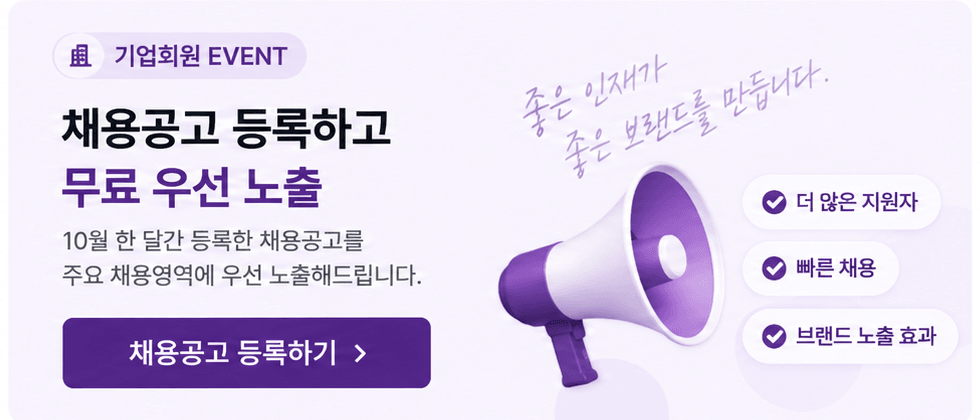
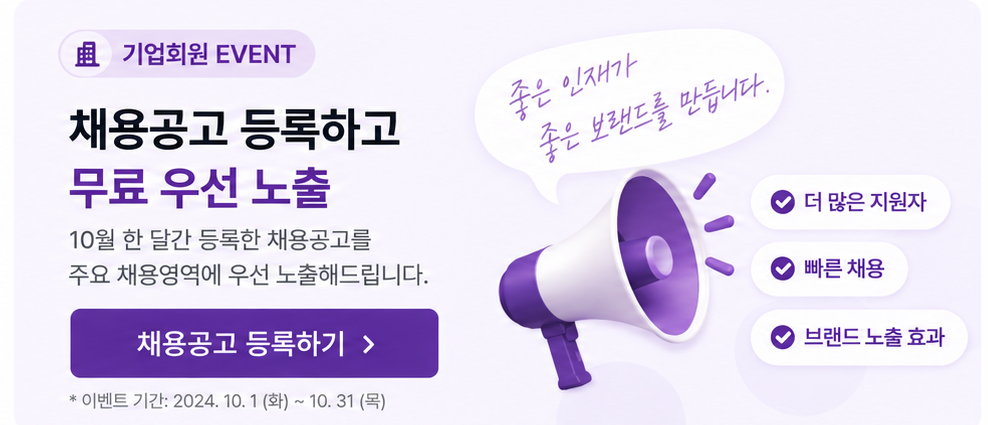
이벤트를 가로 전체로 — 받은 디자인을 그대로 쓴다
좁은 칸(330px)에 넣으니 글자가 3분의 1로 눌려 설명·각주가 안 읽혔다.
디자인은 애초에 가로 전체를 쓰는 구조다 — 공지·채용속보가 반반, 그 아래
이벤트가 통째로.

- 히어로를 디자인 차례대로 세운다: 검색(가로 전체) → 공지·채용속보(반반)
  → 이달의 이벤트(가로 전체)
- 가로가 넉넉해졌으니 검색은 토글·지역·키워드를 한 줄로 편다. 세로로 쌓으면
  카드만 길어진다. 직군 설명줄은 그 아래 한 줄
- 판 한 장 570px(배율 0.57) — 설명·각주·손글씨·알약까지 다 읽힌다

채용관 시작 563 → 832px. 원본을 다 살린 값이다.

diff --git a/app/page.tsx b/app/page.tsx
@@ -168,8 +168,11 @@ function Hero() {
         </Link>
 
         {/* 2. 일자리 찾기 블록 */}
+        {/* 디자인 차례 그대로 — 검색이 가로 전체, 그 아래 공지·채용속보 반반,
+            그 아래 이달의 이벤트가 가로 전체다. 이벤트 판은 받은 그림을 그대로
+            쓰는데, 좁은 칸에 넣으면 글자가 3분의 1로 눌려 읽히지 않는다. */}
         <div className="mt-jobs">
-          <div className="mt-cols">
+          <div className="mt-wide">
             <div className="mt-card">
               <form onSubmit={handleSearch} onClick={(e) => e.stopPropagation()}>
                 <p className="mt-ask">어떤 일자리를 찾으세요?</p>
@@ -219,13 +222,6 @@ function Hero() {
 
             </div>
 
-            {/* 오른쪽은 한 줄로 세운다 — 위는 공지, 아래는 이벤트.
-                이벤트는 받는 사람이 갈리므로 개인회원·기업회원을 나란히 둔다. */}
-            <div className="mt-right">
-              {/* 공지가 한 줄인데 카드에 두 줄 자리를 주면 제목 뒤로 450px 가
-                  빈다. 내용이 없어서가 아니라 자리를 크게 잡아서다. 딱지를
-                  제목 앞에 붙여 한 줄로 눕히고, 남는 높이는 담을 것이 많은
-                  아래 이벤트 카드가 가져간다. */}
               {/* 공지와 채용속보를 한 줄에 나란히 둔다. 둘 다 한 줄짜리 소식이라
                   자리를 반씩 나눠 쓴다. 왼쪽 칸에 두었더니 검색 카드가 이벤트
                   카드보다 길어져 아래 끝이 어긋났다. */}
@@ -278,7 +274,6 @@ function Hero() {
                   </button>
                 </div>
               </div>
-            </div>
           </div>
         </div>
       </div>

diff --git a/app/globals.css b/app/globals.css
@@ -12826,6 +12826,9 @@ button,
 /* 왼쪽은 찾는 자리, 오른쪽은 소식 자리. 오른쪽 안에서 공지와 이벤트를
    위아래로 세운다. */
 .mt-cols { position: relative; display: grid; grid-template-columns: minmax(0, .8fr) minmax(0, 1.2fr); gap: 10px; align-items: stretch; }
+/* 디자인 차례대로 가로 전체에 쌓는다. 이벤트 판은 받은 그림을 그대로 쓰는데,
+   좁은 칸에 넣으면 글자가 3분의 1로 눌려 읽히지 않는다. */
+.mt-wide { position: relative; display: flex; flex-direction: column; gap: 10px; }
 /* 칸 안에 흐르는 띠(채용속보)가 있으면 min-content 가 통째로 늘어 칸이 8000px 까지 밀린다. */
 .mt-cols > .mt-card { min-width: 0; }
 /* 두 칸의 위아래 끝을 맞춘다.
@@ -12839,6 +12842,11 @@ button,
 }
 /* 남는 자리는 머리글과 이 덩어리 사이로만 간다. 덩어리 안은 붙여 둔다. */
 .mt-search-set { display: flex; flex-direction: column; }
+/* 가로가 넉넉하니 토글·지역·키워드를 한 줄로 편다. 세로로 쌓으면 카드만 길어진다. */
+.mt-wide .mt-search-set { flex-direction: row; align-items: center; gap: 10px; flex-wrap: wrap; }
+.mt-wide .mt-search-set .hero-type-toggle { flex: none; }
+.mt-wide .mt-search-set .mt-type-desc { order: 3; flex-basis: 100%; margin: 0; }
+.mt-wide .mt-search-set .hero-searchbar-v2 { flex: 1; min-width: 320px; margin-top: 0; }
 .mt-search-set .mt-type-desc { margin: 8px 0 0; }
 .mt-search-set .hero-searchbar-v2 { margin-top: 10px; }
 .mt-right { display: flex; flex-direction: column; gap: 8px; }
